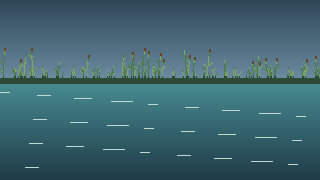
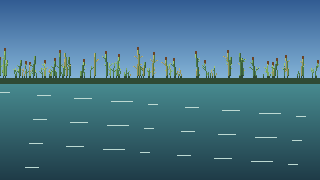
Randlose Welt, blauerer Himmel, buntes Schilf, ziehende Wolken
Welt randlos: _apply_safe_area rueckte die ganze Zeile mit der Welt um
den sicheren Bereich ein, wodurch der Kameraausschnitt als grauer
Streifen neben dem Bild stand. Jetzt laeuft die Welt bis an die Kante;
eingerueckt bleiben nur HUD, Panel und die Tab-Leiste rechts.

Himmel: neues tools/himmel_bauen.py rechnet den Verlauf aus festen
Endpunkten statt ihn zu verschieben -- kraeftiger blau und heller, von
(50,92,146) nach (130,178,214). Wiederholbar.

Schilf: dicke Halme bekommen eine Schattenseite, dazu frisches Gruen
und trockenes Oliv als weitere Sorten. schilf_bauen faerbt den Himmel
selbst mit, ein Lauf baut den ganzen Hintergrund.

Wolken (scenes/fishing/clouds.gd): gezeichnet im Pixelraster des
Hintergrunds, ziehen langsam vorbei und wandern am Rand um. Bei Regen
werden aus fuenf dreizehn, und sie dunkeln nach -- ueber sechs Sekunden,
damit der Wetterwechsel nicht im selben Bild umspringt. Sie bleiben
oberhalb der Schilfspitzen: das Schilf steckt im Hintergrundbild, alles
Gezeichnete laege sonst davor statt dahinter.

diff --git a/tools/schilf_bauen.py b/tools/schilf_bauen.py
@@ -1,56 +1,61 @@
-"""Die Schilfhalme im Hintergrund von Willow Lake zeichnen.
+"""Himmel und Schilf von Willow Lake bauen.
 
     python3 -m tools.schilf_bauen
 
-Schreibt assets/art/bg_lake.png an Ort und Stelle um: alles oberhalb der
-Uferbande in den drei Schilftoenen wird durch neu gezeichnete Halme
-ersetzt. Deterministisch (fester Zufallssamen) und wiederholbar -- ein
-zweiter Lauf liefert dasselbe Bild.
+Faerbt zuerst den Himmel (tools/himmel_bauen) und zeichnet danach die
+Halme neu. Beides deterministisch und wiederholbar: ein zweiter Lauf
+liefert dasselbe Bild.
 
-Vorher standen dort 40 gleich verteilte Ein-Pixel-Striche in fuenf
-Hoehen mit Periode 46. Im Spiel ist ein Hintergrundpixel rund sechs
+Vorher standen dort 40 gleich verteilte Ein-Pixel-Striche in fuenf Hoehen
+mit Periode 46. Im Spiel ist ein Hintergrundpixel rund sechs
 Bildschirmpixel breit, sie lasen sich deshalb als Balken statt als
-Schilf. Jetzt: gestreute Bueschel, geneigte Halme, haengende Blaetter
-und Rohrkolben.
+Schilf. Jetzt: gestreute Bueschel, kraeftige Halme mit Schattenseite,
+Blaetter, die nach aussen OBEN wegwachsen, trockene Halme dazwischen und
+Rohrkolben.
 
 Nur Willow Lake hat Schilf; die uebrigen Zonenbilder enthalten keinen
 einzigen Halmpixel und werden nicht angefasst.
 
-WICHTIG: reed_dark ist die Farbe der UFERBANDE. Vor dem Himmel liest
-sie sich als Schwarz -- sie darf nur in den untersten Zeilen liegen,
-wo sie mit der Bande verschmilzt, nie im freien Halm.
+WICHTIG: reed_dark ist die Farbe der UFERBANDE. Vor dem Himmel liest sie
+sich als Schwarz -- sie darf nur in den untersten Zeilen liegen, wo sie
+mit der Bande verschmilzt, nie im freien Halm.
 """
 import os
 import random
 import sys
-from collections import Counter
+
 from PIL import Image
 
-DARK = (47, 74, 52, 255)        # reed_dark -- nur im Ufer
-MID = (77, 122, 74, 255)        # reed
-LIGHT = (123, 168, 95, 255)     # reed_light
-KOLBEN = (106, 67, 38, 255)     # leather -- Rohrkolben, wie das Stegholz
-KOLBEN_HELL = (122, 90, 60, 255)  # wood
-GRUEN = {DARK, MID, LIGHT, KOLBEN, KOLBEN_HELL}
-UFER_OBEN = 78
+S = os.path.dirname(os.path.abspath(__file__))
+sys.path.insert(0, os.path.dirname(S))
 
+from tools import himmel_bauen
 
-def leeren(px, w):
-    """Die alten Halme mit der Himmelfarbe IHRER Zeile uebermalen.
+WURZEL = os.path.dirname(S)
+BILD = os.path.join(WURZEL, "assets", "art", "bg_lake.png")
+UFER_OBEN = himmel_bauen.UFER_OBEN
 
-    Auf durchsichtig geloescht schienen an ihrer Stelle die dunklen
-    Bildschirmraender durch -- als schwarze Balken vor dem Himmel. Der
-    Himmel ist ein reiner Zeilenverlauf, seine Farbe ist also je Zeile
-    eindeutig die haeufigste.
-    """
-    for y in range(UFER_OBEN):
-        zaehler = Counter(px[x, y] for x in range(w) if px[x, y] not in GRUEN)
-        if not zaehler:
-            continue
-        himmel = zaehler.most_common(1)[0][0]
-        for x in range(w):
-            if px[x, y] in GRUEN:
-                px[x, y] = himmel
+## Die drei Schilftoene aus core/palette.gd, dazu drei, die daraus
+## abgeleitet sind: eine Schattenseite fuer dicke Halme, ein helles
+## Gruen fuer frische Spitzen und ein trockenes Olivgelb fuer alte Halme.
+DARK = (47, 74, 52, 255)          # reed_dark -- nur im Ufer
+SCHATTEN = (58, 94, 60, 255)
+MID = (77, 122, 74, 255)          # reed
+LIGHT = (123, 168, 95, 255)       # reed_light
+FRISCH = (163, 199, 112, 255)
+TROCKEN = (152, 148, 88, 255)
+TROCKEN_HELL = (186, 178, 116, 255)
+## Rohrkolben in den Holztoenen des Stegs (leather, wood).
+KOLBEN = (106, 67, 38, 255)
+KOLBEN_HELL = (122, 90, 60, 255)
+
+## (Koerper, Spitze, Schatten) -- die Halme eines Bueschels ziehen daraus.
+SORTEN = (
+    (MID, LIGHT, SCHATTEN),
+    (LIGHT, FRISCH, MID),
+    (MID, FRISCH, SCHATTEN),
+    (TROCKEN, TROCKEN_HELL, MID),
+)
 
 
 def _setz(px, x, y, farbe, w, belegt):
@@ -59,26 +64,35 @@ def _setz(px, x, y, farbe, w, belegt):
         belegt.add((x, y))
 
 
+def leeren(px, w):
+    """Den Himmel ueber alles legen, was vom letzten Lauf stehen blieb."""
+    for y in range(UFER_OBEN):
+        ton = himmel_bauen.farbe(y)
+        for x in range(w):
+            px[x, y] = ton
+
+
 def halm(px, x0, hoehe, neigung, w, rng, belegt, kolben=False):
-    """Fuss im Ufergruen, Halm satt, Spitze hell."""
-    hell = rng.random() < 0.4
-    koerper = LIGHT if hell else MID
-    spitze = MID if hell else LIGHT
+    """Ein Halm. Ab mittlerer Hoehe zwei Pixel breit, mit Schattenseite."""
+    koerper, spitze, schatten = SORTEN[rng.randrange(len(SORTEN))]
+    dick = hoehe >= 16
     spur = []
     for i in range(hoehe):
         t = i / max(1, hoehe - 1)
         x = x0 + int(round(neigung * t ** 1.7))
         y = UFER_OBEN - 1 - i
         spur.append((x, y))
-        # Dunkel nur ganz unten, wo die Uferbande direkt anschliesst.
         if i < 2:
-            farbe = DARK
+            ton = DARK
         elif hoehe > 7 and t > 0.85:
-            farbe = spitze
+            ton = spitze
         else:
-            farbe = koerper
-        _setz(px, x, y, farbe, w, belegt)
-    # Blaetter: durchgehender, haengender Bogen, am Halm angewachsen.
+            ton = koerper
+        _setz(px, x, y, ton, w, belegt)
+        # Die Schattenseite steht rechts: das Licht kommt von links, wie
+        # beim Steg (tools/steg_bauen.py zieht seine Kante genauso).
+        if dick and i >= 2:
+            _setz(px, x + 1, y, DARK if i < 3 else schatten, w, belegt)
     if hoehe >= 9:
         for _ in range(1 if hoehe < 15 else 2):
             i = rng.randint(int(hoehe * 0.4), int(hoehe * 0.8))
@@ -94,7 +108,8 @@ def halm(px, x0, hoehe, neigung, w, rng, belegt, kolben=False):
                     y -= 1
                 if k == laenge and laenge >= 4:
                     y += 1
-                _setz(px, bx + richtung * k, y, koerper, w, belegt)
+                _setz(px, bx + richtung * k, y,
+                      spitze if k == laenge else koerper, w, belegt)
     if kolben:
         # Zwei Pixel breit und vier hoch: schmaler liest er sich als
         # versprengter Farbpunkt statt als Rohrkolben.
@@ -122,19 +137,16 @@ def zeichnen(px, w, saat=11):
         x += rng.randint(6, 16)
 
 
-WURZEL = os.path.dirname(os.path.dirname(os.path.abspath(__file__)))
-BILD = os.path.join(WURZEL, "assets", "art", "bg_lake.png")
-
-
 def main(quelle=BILD, ziel=None):
     ziel = ziel or quelle
-    im = Image.open(quelle).convert("RGBA")
+    himmel_bauen.main(quelle, ziel)
+    im = Image.open(ziel).convert("RGBA")
     w, _ = im.size
     px = im.load()
     leeren(px, w)
     zeichnen(px, w)
     im.save(ziel)
-    print("geschrieben:", ziel)
+    print("Schilf gezeichnet:", ziel)
 
 
 if __name__ == "__main__":

diff --git a/tools/himmel_bauen.py b/tools/himmel_bauen.py
@@ -1,0 +1,55 @@
+"""Den Himmelverlauf von Willow Lake faerben.
+
+    python3 -m tools.himmel_bauen
+
+Schreibt assets/art/bg_lake.png an Ort und Stelle um: jede Zeile oberhalb
+der Uferbande bekommt ihre Farbe aus `farbe(y)` -- restlos, auch dort, wo
+Schilf stand. Die Halme zeichnet danach tools/schilf_bauen.py neu; das
+ruft diesen Schritt ohnehin selbst auf, ein einzelner Lauf von
+`python3 -m tools.schilf_bauen` baut also den ganzen Hintergrund.
+
+Der Verlauf wird aus festen Endpunkten gerechnet und nicht aus dem
+vorhandenen Bild verschoben: dadurch liefert ein zweiter Lauf dasselbe
+Ergebnis, statt die Farben jedes Mal weiterzudrehen.
+
+Vorher lief er von (47,72,88) nach (105,138,159) -- ein entsaettigtes
+Schiefergrau, neben dem das Wasser bunter aussah als der Himmel darueber.
+Jetzt kraeftiger blau und eine Spur heller.
+"""
+import os
+import sys
+
+from PIL import Image
+
+WURZEL = os.path.dirname(os.path.dirname(os.path.abspath(__file__)))
+BILD = os.path.join(WURZEL, "assets", "art", "bg_lake.png")
+
+## Erste Zeile der Uferbande -- ab hier ist Land, kein Himmel mehr.
+UFER_OBEN = 78
+## Oben dunkel und satt, am Horizont hell und luftig.
+OBEN = (50, 92, 146)
+UNTEN = (130, 178, 214)
+
+
+def farbe(y):
+    """Die Himmelfarbe dieser Bildzeile."""
+    t = min(max(y, 0), UFER_OBEN - 1) / float(UFER_OBEN - 1)
+    return tuple(int(round(a + (b - a) * t))
+                 for a, b in zip(OBEN, UNTEN)) + (255,)
+
+
+def main(quelle=BILD, ziel=None):
+    ziel = ziel or quelle
+    im = Image.open(quelle).convert("RGBA")
+    w, _ = im.size
+    px = im.load()
+    for y in range(UFER_OBEN):
+        ton = farbe(y)
+        for x in range(w):
+            px[x, y] = ton
+    im.save(ziel)
+    print("Himmel gefaerbt:", ziel)
+
+
+if __name__ == "__main__":
+    main(*sys.argv[1:])
